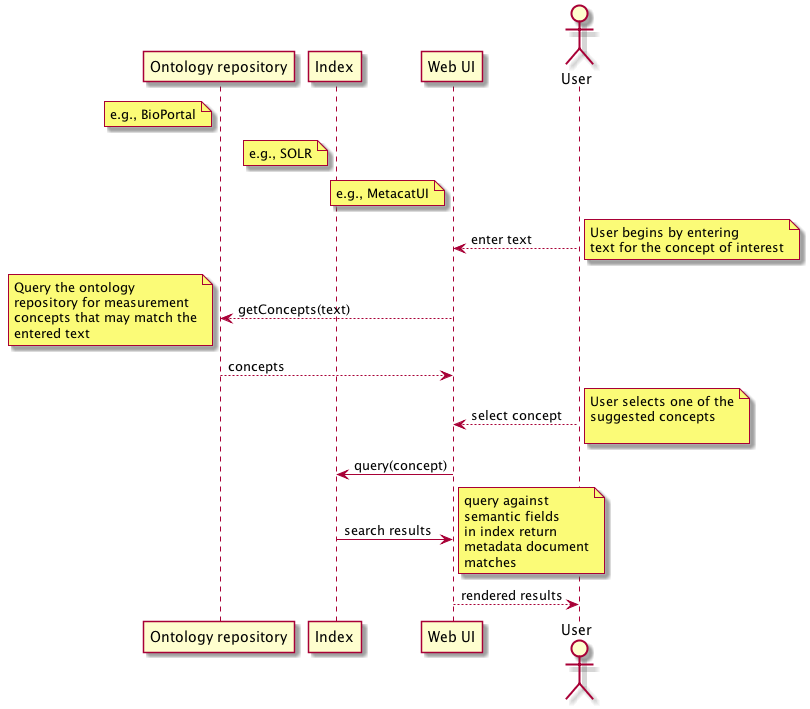
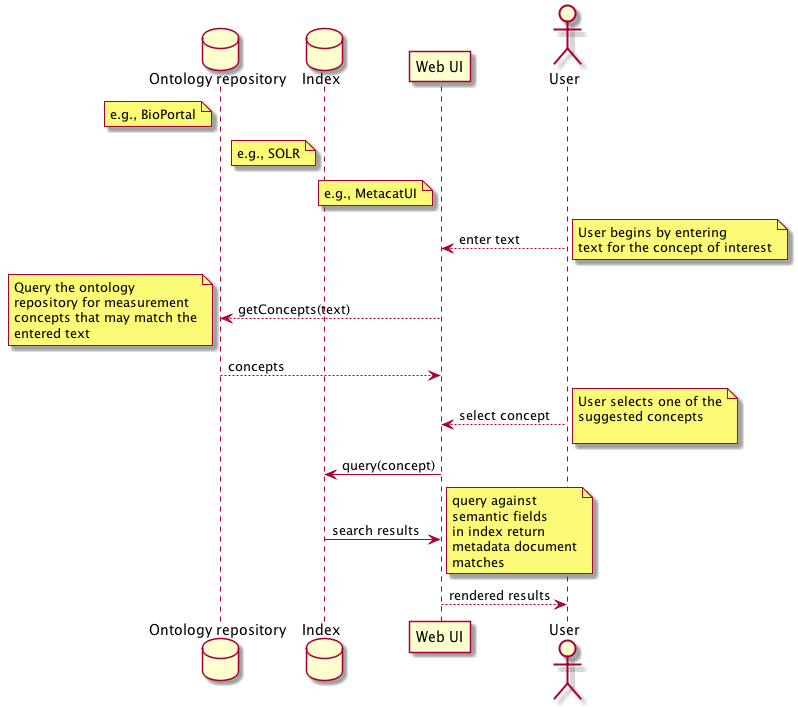
use "database" for participants that are storing things. (new in plantUML 8008)

diff --git a/docs/use-cases/semantics/use-case-50.rst b/docs/use-cases/semantics/use-case-50.rst
@@ -35,9 +35,9 @@ Sequence Diagram
 ----------------
 .. 
     @startuml images/uc_50_seq.png 
-		participant "Ontology repository" as ontrepo
+		database "Ontology repository" as ontrepo
 		participant "Annotation generator" as autoann
-		participant "Object Store" as store 
+		database "Object Store" as store 
 		
 		note left of ontrepo: e.g., BioPortal
 		note left of autoann: TBD

diff --git a/docs/use-cases/semantics/use-case-51.rst b/docs/use-cases/semantics/use-case-51.rst
@@ -31,8 +31,8 @@ Sequence Diagram
 ----------------
 .. 
     @startuml images/uc_51_seq.png 
-		participant "Ontology repository" as ontrepo
-		participant "Object Store" as store 
+		database "Ontology repository" as ontrepo
+		database "Object Store" as store 
 		participant "Web UI" as webui
 	  	actor "User" as user
 		

diff --git a/docs/use-cases/semantics/use-case-52.rst b/docs/use-cases/semantics/use-case-52.rst
@@ -35,8 +35,8 @@ Sequence Diagram
 ----------------
 .. 
     @startuml images/uc_52_seq.png 
-		participant "Ontology repository" as ontrepo
-	  	participant "Index" as index 
+		database "Ontology repository" as ontrepo
+	  	database "Index" as index 
 		participant "Web UI" as webui
 	  	actor "User" as user
 		

diff --git a/docs/use-cases/semantics/use-case-55.rst b/docs/use-cases/semantics/use-case-55.rst
@@ -33,7 +33,7 @@ Sequence Diagram
 ----------------
 .. 
     @startuml images/uc_55_seq.png 
-		participant "Ontology repository" as ontrepo
+		database "Ontology repository" as ontrepo
 		participant "Annotation generator" as autoann
 		participant "Web UI" as webui 
 		

diff --git a/docs/use-cases/semantics/use-case-53.rst b/docs/use-cases/semantics/use-case-53.rst
@@ -29,7 +29,7 @@ Sequence Diagram
 ----------------
 .. 
     @startuml images/uc_53_seq.png 
-		participant "Object Store" as store 
+		database "Object Store" as store 
 		participant "Web UI" as webui
 	  	actor "User" as user
 		
